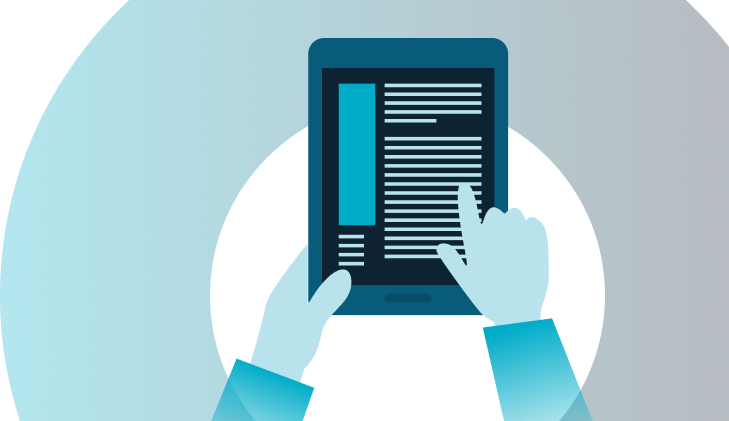
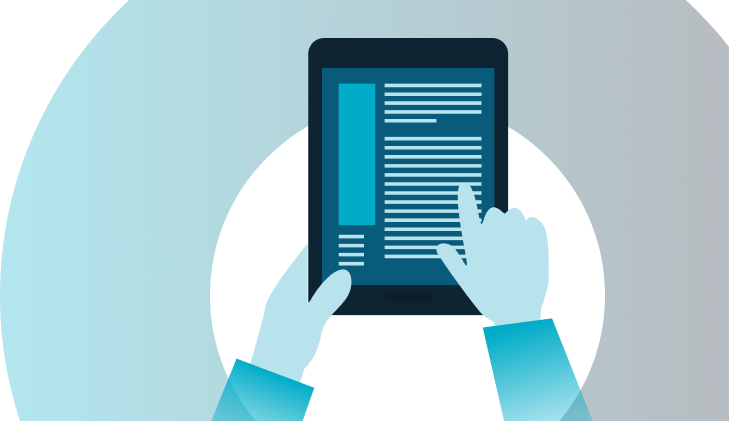
autobanner-update

Changed region(s): [[0.4225, 0.0926, 0.6941, 0.772]]

diff --git a/application/views/pages/amp_pages/auto-finance-software.html b/application/views/pages/amp_pages/auto-finance-software.html
@@ -191,7 +191,8 @@
    padding: 60px 0;
    }
    .auto-page .c-suite .xas-banner {
-    height: 330px;
+    height: 350px;
+    background: #085B7B;
    }
    .auto-page .c-suite .home-hero-bg img {
    top: 0;
@@ -201,11 +202,9 @@
    width: 100%;
    }
    .auto-page .c-suite .xas-content .home-hero-ctitle{
-      font-size: 32px;
+      font-size: 3rem;
    }
-   .auto-page .c-suite .home-hero-cwrap p{
-      font-size: 16px;
-   }
+  
    .auto-page .c-suite .home-hero-cwrap p span{
       font-weight: 700;display: block;
    }
@@ -503,7 +502,7 @@
                      <div class="home-hero-ctitlewrap">
                         <h1 class="home-hero-ctitle">Need C-suite approval?</h1>
                         <p class="present">Level up your strategy with <span>'The Business Case for Next-Gen Auto Platform'</span></p>
-                        <a class="odc__btn odc__btn--primary odc__btn--md read-more" href="https://dev.odessainc.com/handbook/next-gen-auto-finance-platform" target="_blank">Get the Handbook</a>
+                        <a class="odc__btn odc__btn--primary odc__btn--md read-more" href="https://dev.odessainc.com/handbook/next-gen-auto-finance-platform" target="_blank">Access your copy now</a>
       
                      </div>
                   </div>
